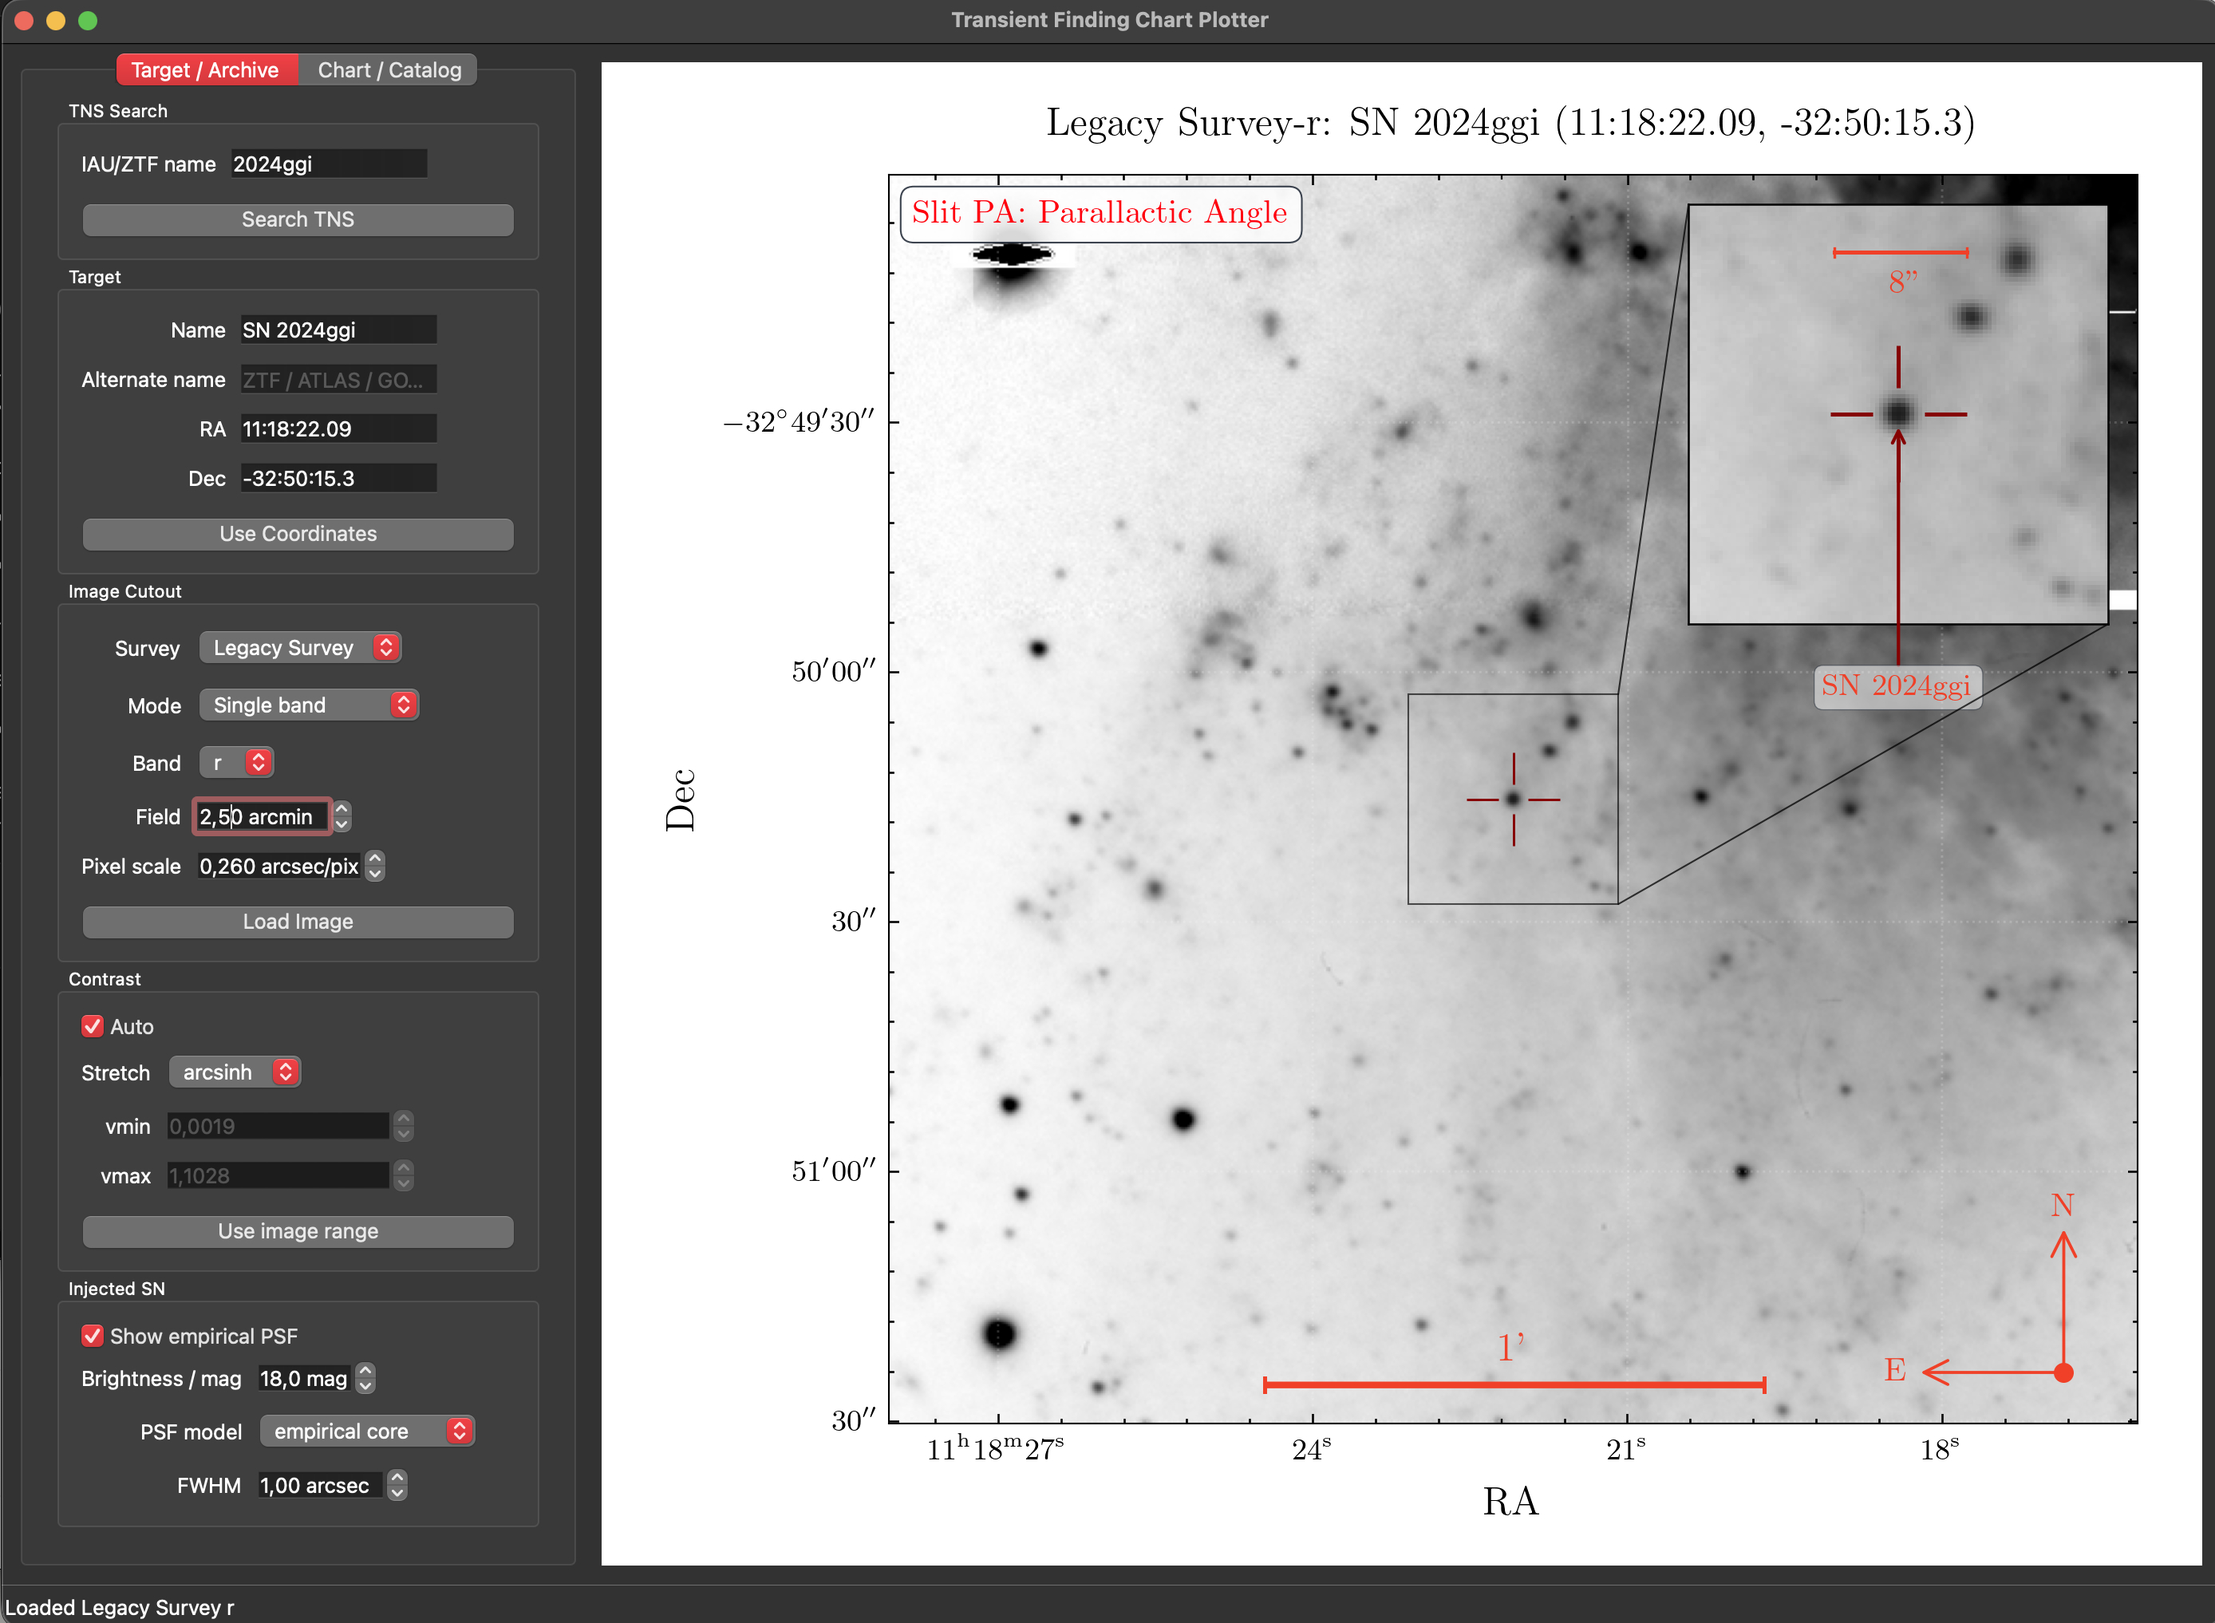
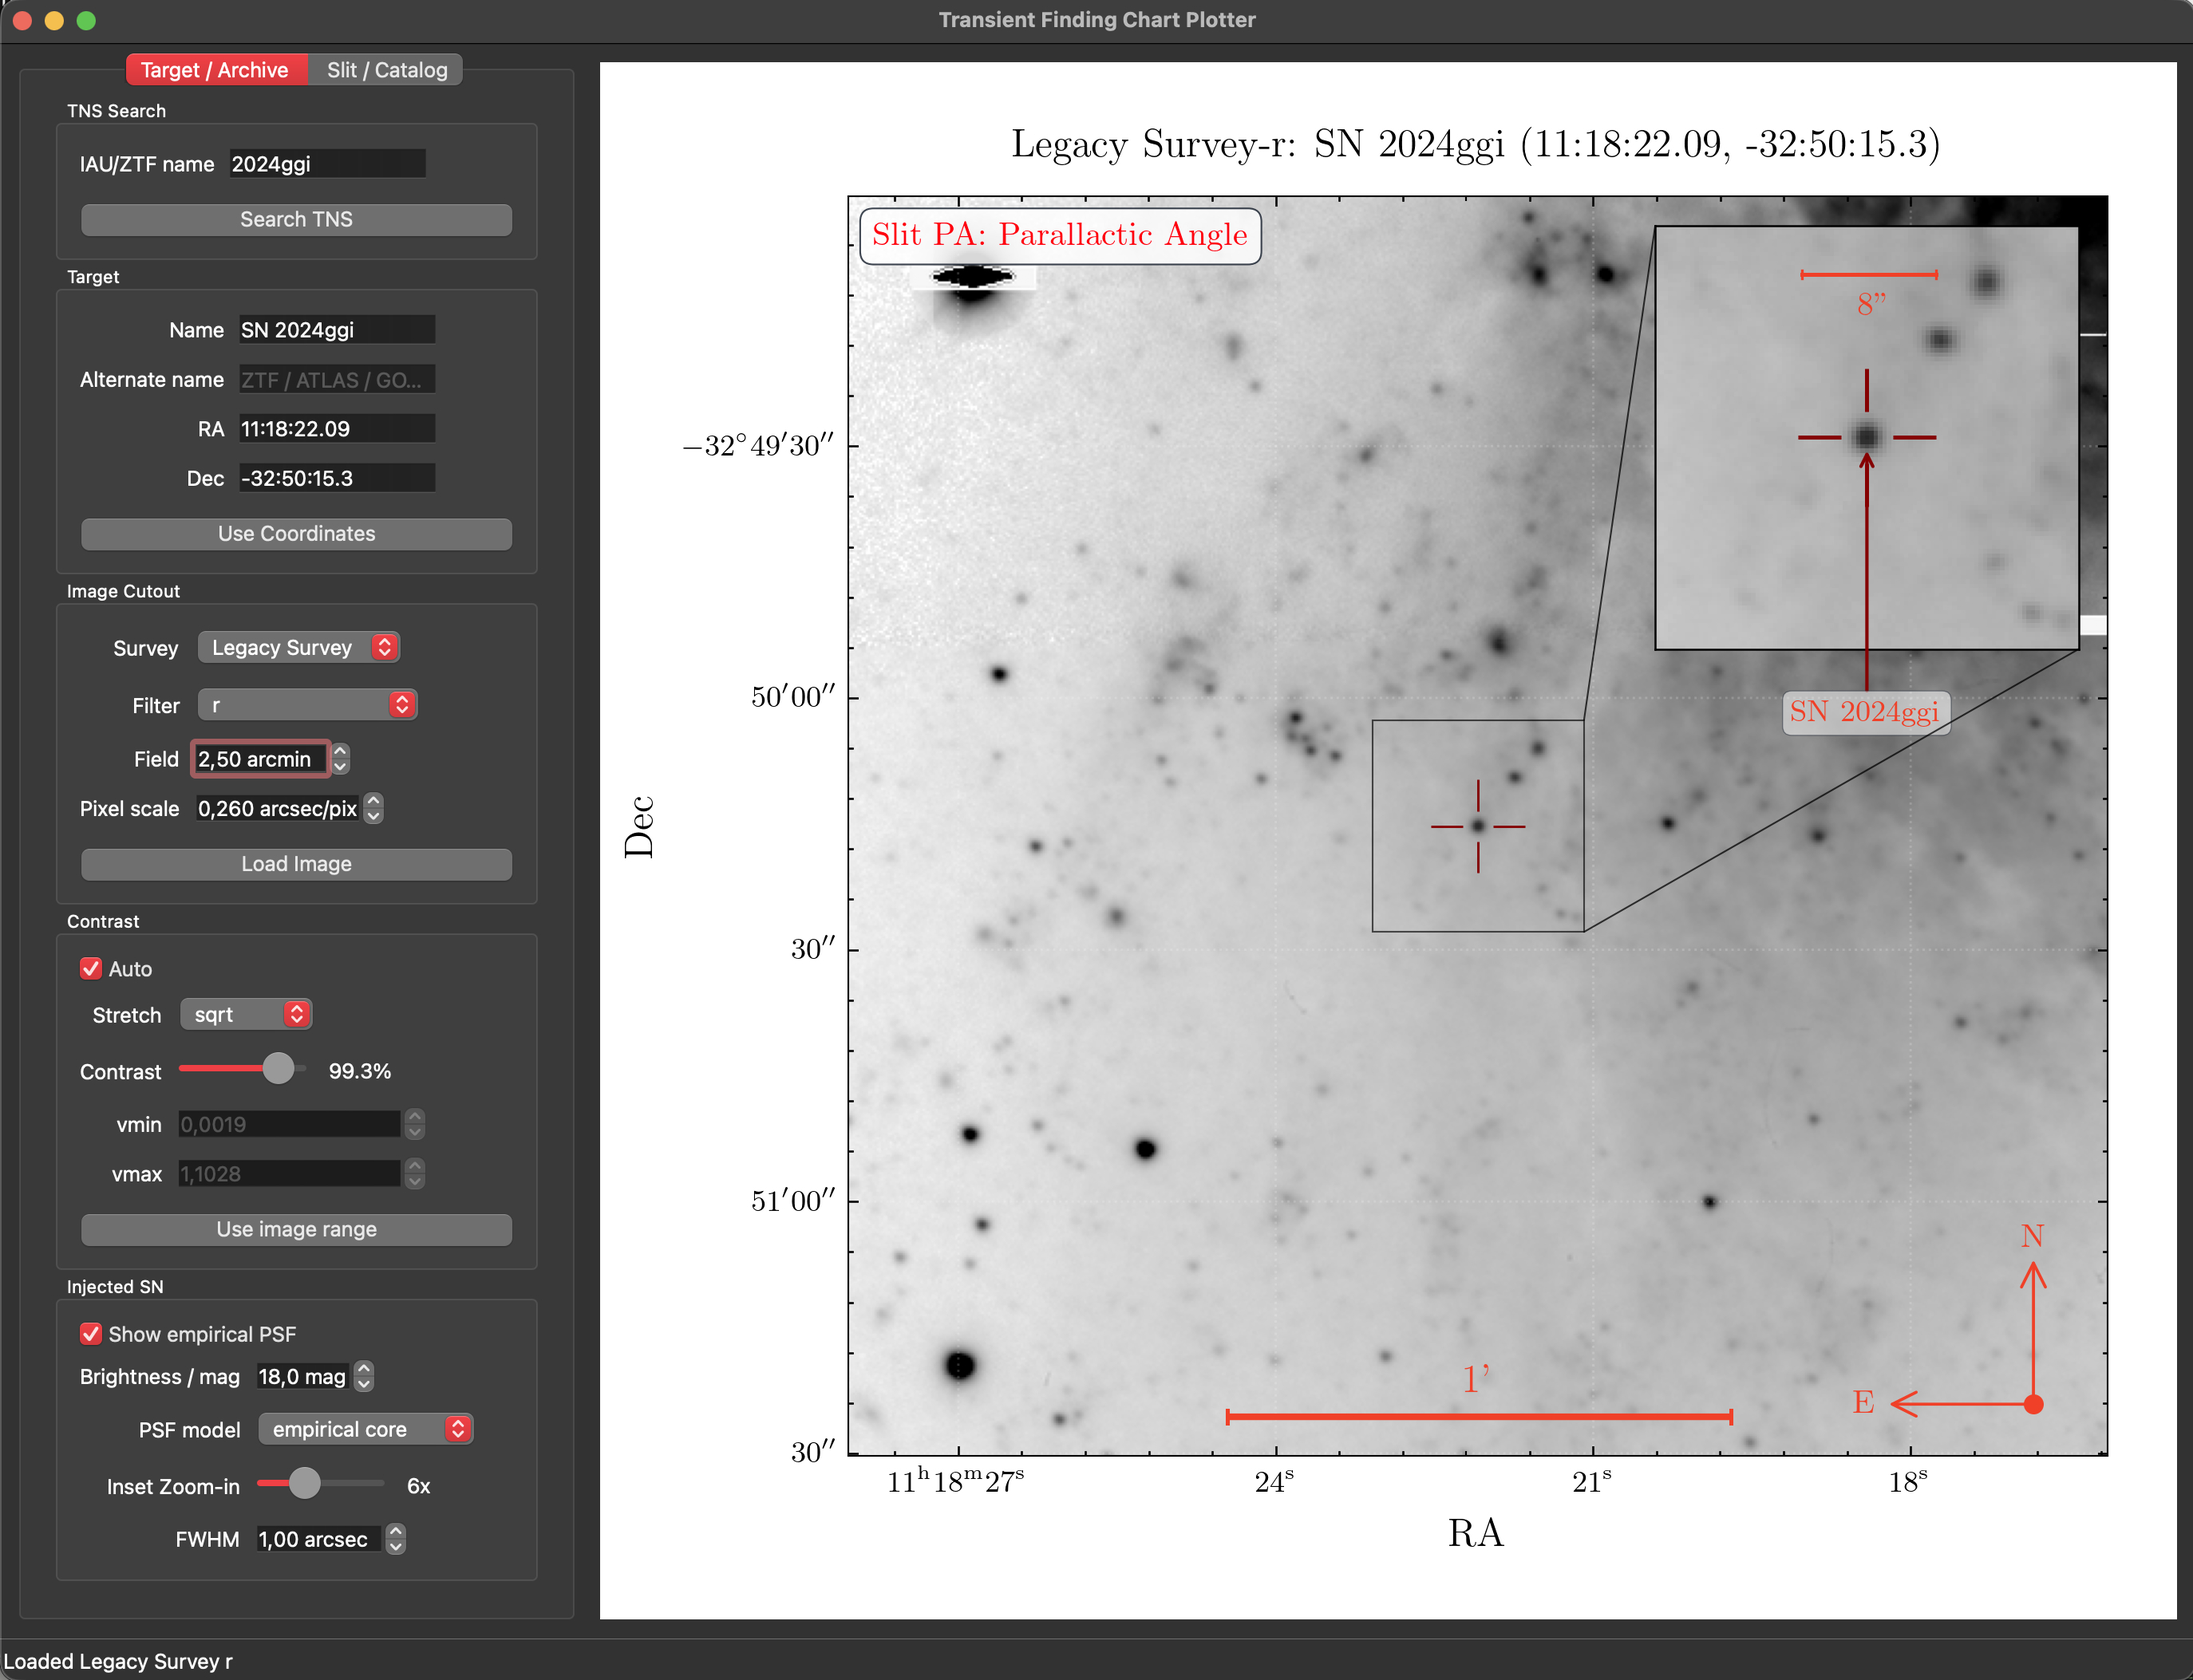
Update README.md

diff --git a/README.md b/README.md
@@ -6,16 +6,17 @@
 [![Tests](https://img.shields.io/badge/tests-29%20passed-brightgreen.svg)](tests)
 [![License: GPLv3](https://img.shields.io/badge/license-GPLv3-blue.svg)](LICENSE)
 
-Desktop and development-web finding chart tool for transient observations. It resolves TNS/manual targets, fetches archival cutouts, injects a visual SN PSF, overlays slit/catalog geometry, and exports PNG/JPG/PDF charts. The inset and finding-chart presentation are partly inspired by Sean Brennan's [`Astro-Sean/finder_chart`](https://github.com/Astro-Sean/finder_chart).
+Desktop and development-web finding chart tool for transient observations. It resolves TNS/manual targets, fetches archival cutouts, injects a visual SN PSF, overlays slit/catalog geometry, and exports PNG/JPG/PDF charts. The finding-chart presentation is inspired by Sean Brennan's [`Astro-Sean/finder_chart`](https://github.com/Astro-Sean/finder_chart).
 
 ![Template finding chart](docs/assets/findingchartGUI_2024ggi.jpg)
 
 ## Features
 
 - Archives: Pan-STARRS, Legacy Survey, DSS2, 2MASS.
-- Bands/modes: survey-specific single-band and color-composite options.
+- Filter selection: survey-specific single-band defaults (`r`, `red`, `J`) plus color-composite mode where supported.
 - Chart overlays: SN marker, FOV-scaled 3x inset, slit, compass, 1 arcmin ruler.
-- Injected SN: empirical field-star PSF with Moffat fallback.
+- Injected SN: brightness control, inset zoom control, and selectable PSF model (`empirical core`, `empirical hybrid`, `moffat`).
+- Contrast: auto-contrast slider, stretch selector, or manual `vmin` / `vmax`.
 - Catalogs: Gaia DR3 with VizieR fallback and Pan-STARRS DR2 overlays with brightness cut and inset markers.
 - Blind offsets: selected catalog stars report delta RA, delta Dec, PA east of north, magnitude, and Gaia parallax/proper motion when available.
 - Export: PNG, JPG, PDF.
@@ -74,11 +75,11 @@ Set `FINDING_CHART_PYTHON` to a virtualenv/conda Python with the package depende
 ## Workflow
 
 1. Search TNS/IAU/ZTF name or enter custom RA/Dec.
-2. Select archive, mode, band, field size, and pixel scale.
+2. Select archive, filter, field size, and pixel scale.
 3. Load the image.
 4. Optionally query Gaia DR3 or Pan-STARRS DR2 with a brightness cut.
 5. Click a catalog marker in the main chart or inset for blind-offset details.
-6. Adjust slit, overlays, injected SN, observatory/time, and contrast.
+6. Adjust slit, overlays, injected SN brightness, PSF model, inset zoom, observatory/time, and contrast.
 7. Export the chart.
 
 ## TNS Credentials
